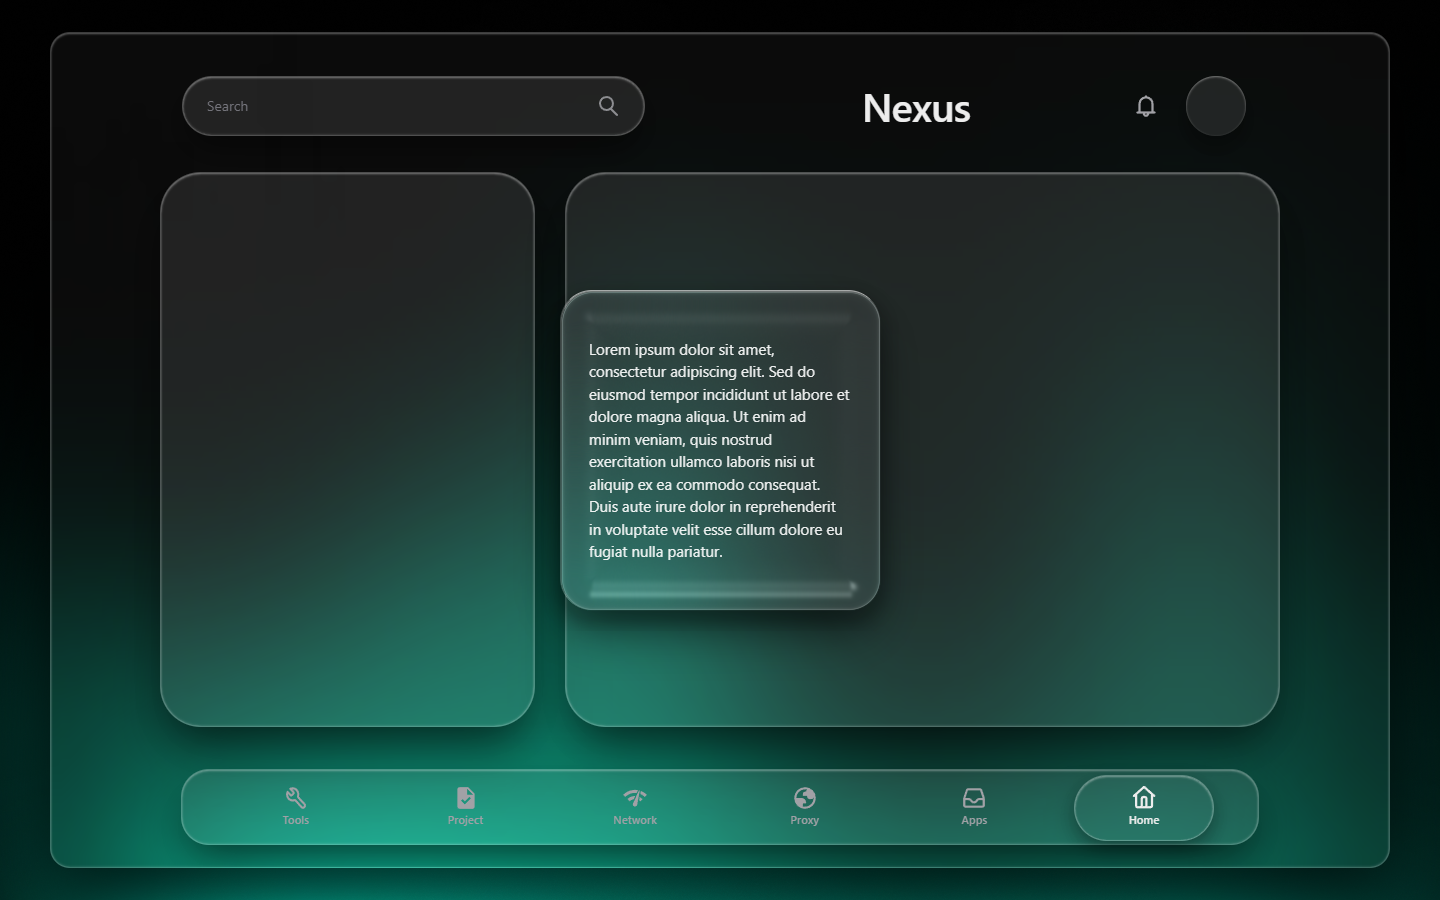
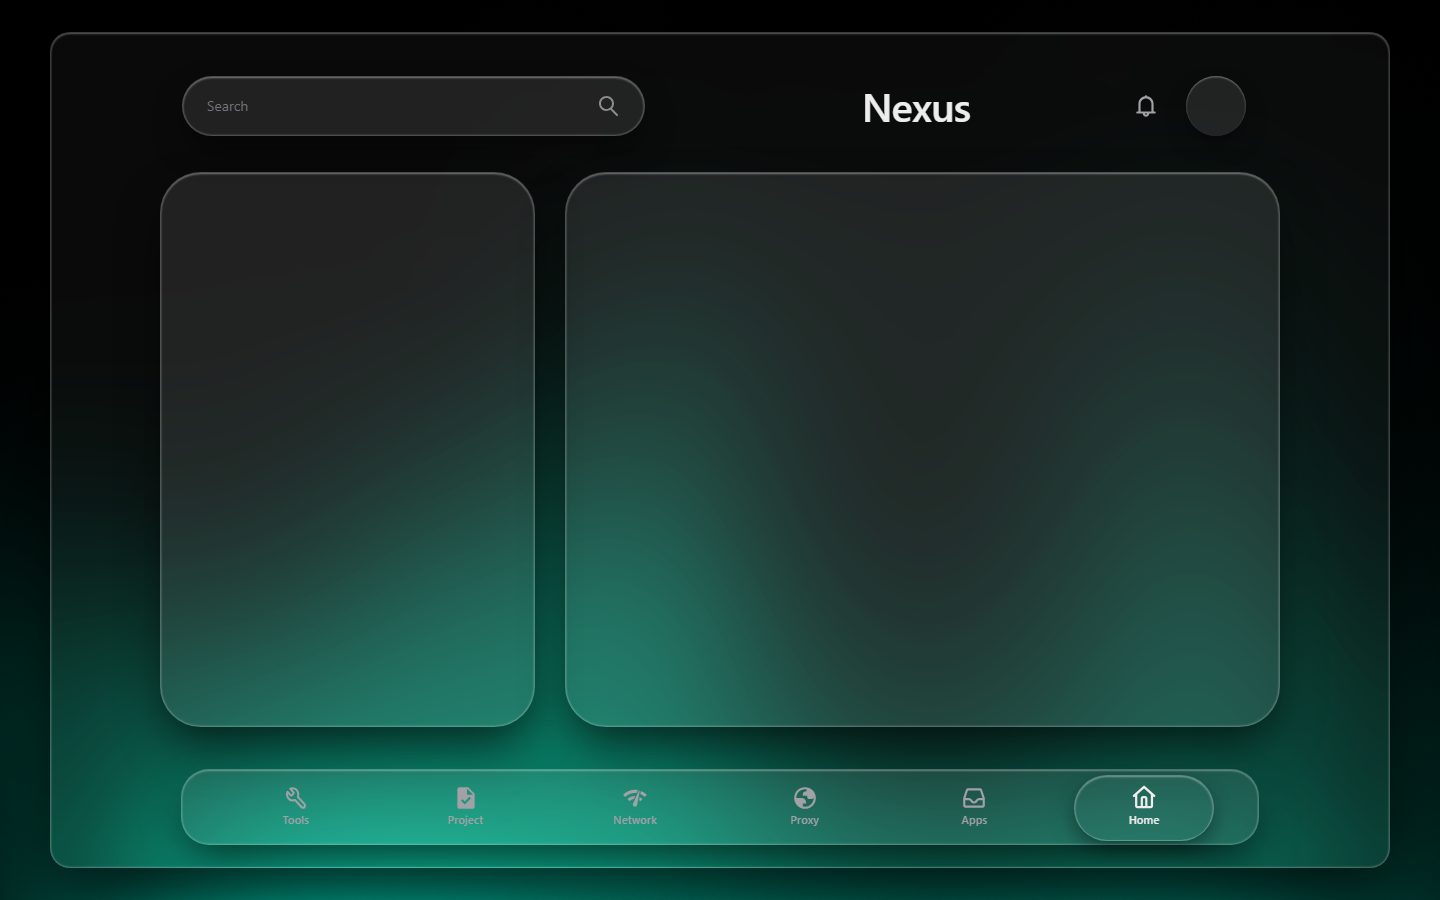
clean: Remove test square from Home view in preparation for next phase

Changed region(s): [[0.375, 0.3111, 0.5938, 0.7156]]

diff --git a/src/pages/Home/HomePage.tsx b/src/pages/Home/HomePage.tsx
@@ -3,7 +3,6 @@ import { TopBar } from "@/components/layout/TopBar";
 import { BottomNav, NavTabId } from "@/components/navigation/BottomNav";
 import { LiquidGlassPanel } from "@/components/glass/LiquidGlassPanel";
 import { LiquidGlassScene } from "@/components/glass/LiquidGlassScene";
-import { DraggableTestGlass } from "@/components/glass/DraggableTestGlass";
 import "./HomePage.css";
 
 export const HomePage: React.FC = () => {
@@ -72,9 +71,6 @@ export const HomePage: React.FC = () => {
         {/* Bottom Navigation Bar */}
         <BottomNav activeTab={activeTab} onTabChange={setActiveTab} />
       </section>
-
-      {/* Draggable square with liquid glass effect and zero blur */}
-      <DraggableTestGlass />
     </LiquidGlassScene>
   );
 };

diff --git a/src/components/glass/LiquidGlassScene.tsx b/src/components/glass/LiquidGlassScene.tsx
@@ -43,7 +43,6 @@ export const LiquidGlassScene: React.FC<LiquidGlassSceneProps> = ({
     // Give DOM a frame to compute layout and ensure background images are ready
     const timer = setTimeout(() => {
       const glassNodes = rootEl.querySelectorAll<HTMLElement>('[data-glass="true"]');
-      if (glassNodes.length === 0) return;
 
       LiquidGlass.init({
         root: rootEl,
